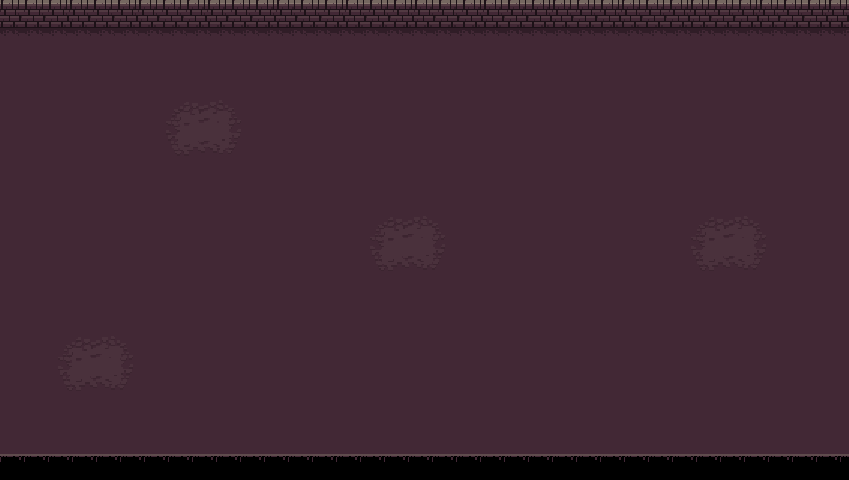
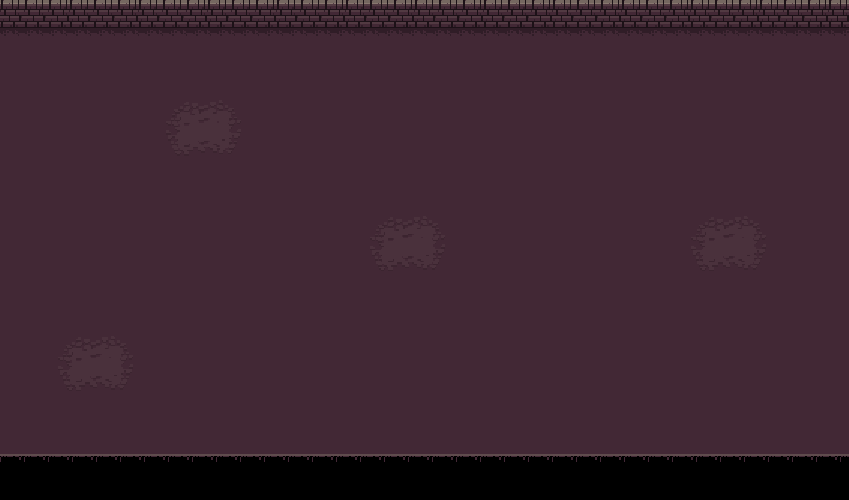
Larger scene - Removed size from Player.java + Collision now based on world height and player sprite height

Changed region(s): [[0.0, 0.9062, 1.0, 0.9688], [0.0, 0.0312, 1.0, 0.0625]]

diff --git a/src/Player.java b/src/Player.java
@@ -7,8 +7,6 @@ import java.util.ArrayList;
 import java.util.List;
 
 public class Player extends AnimatedSpriteObject implements ICollidableWithGameObjects {
-
-    private final int size;
     private final ShooterApp world;
 
     private int[] facingDirection = new int[2]; // [x, y]
@@ -24,7 +22,6 @@ public class Player extends AnimatedSpriteObject implements ICollidableWithGameO
         this.world = world;
         setFriction(0);
 
-        size = 50;
         walkingSpeed = 4;
         currentFrame = 0;
         facingDirection[0] = 1;
@@ -51,13 +48,13 @@ public class Player extends AnimatedSpriteObject implements ICollidableWithGameO
             setySpeed(0);
             setY(10);
         }
-        if (getX() >= world.width - size) {
+        if (getX() >= world.width - getWidth()) {
             setxSpeed(0);
-            setX(world.width - size);
+            setX(world.width - getWidth());
         }
-        if (getY() >= world.height - size - 25) {
+        if (getY() >= world.height - getHeight()*2) {
             setySpeed(0);
-            setY(world.height - size - 25);
+            setY(world.height - getHeight()*2);
         }
       
         for (Key key : keys) {

diff --git a/src/EnemySpawner.java b/src/EnemySpawner.java
@@ -22,7 +22,7 @@ public class EnemySpawner implements IAlarmListener {
     @Override
     public void triggerAlarm(String alarmName) {
         Enemy skeleton = new Skeleton(world);
-        world.addGameObject(skeleton, world.getWidth(), world.random(skeleton.getHeight() / 2, world.getHeight() - skeleton.getHeight() * 1.5F));
+        world.addGameObject(skeleton, world.getWidth(), world.random(skeleton.getHeight() / 2, world.getHeight() - skeleton.getHeight() * 2F));
         startAlarm();
     }
 

diff --git a/src/ShooterApp.java b/src/ShooterApp.java
@@ -20,7 +20,7 @@ public class ShooterApp extends GameEngine {
     public void setupGame() {
 
         worldWidth = 849;
-        worldHeight = 480;
+        worldHeight = 500;
 
         createObjects();
         createViewWithoutViewport(worldWidth, worldHeight);
